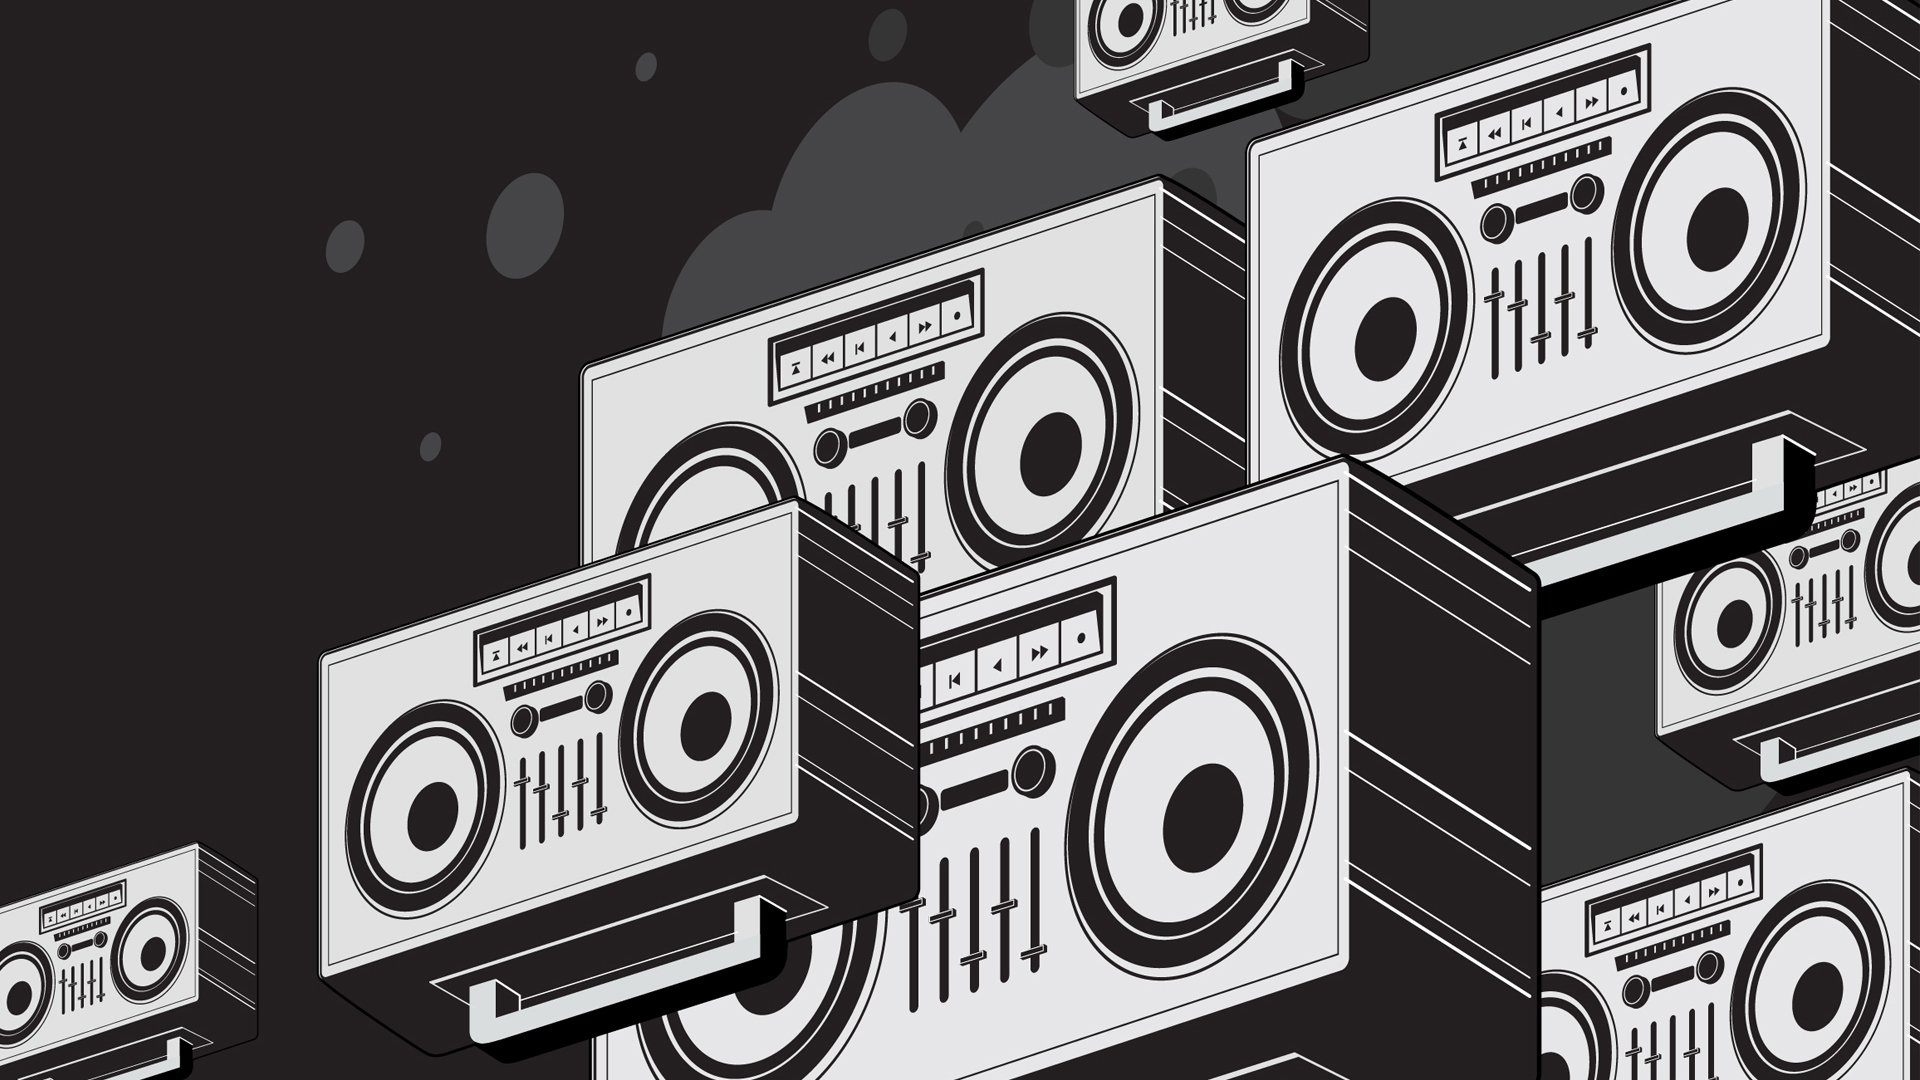
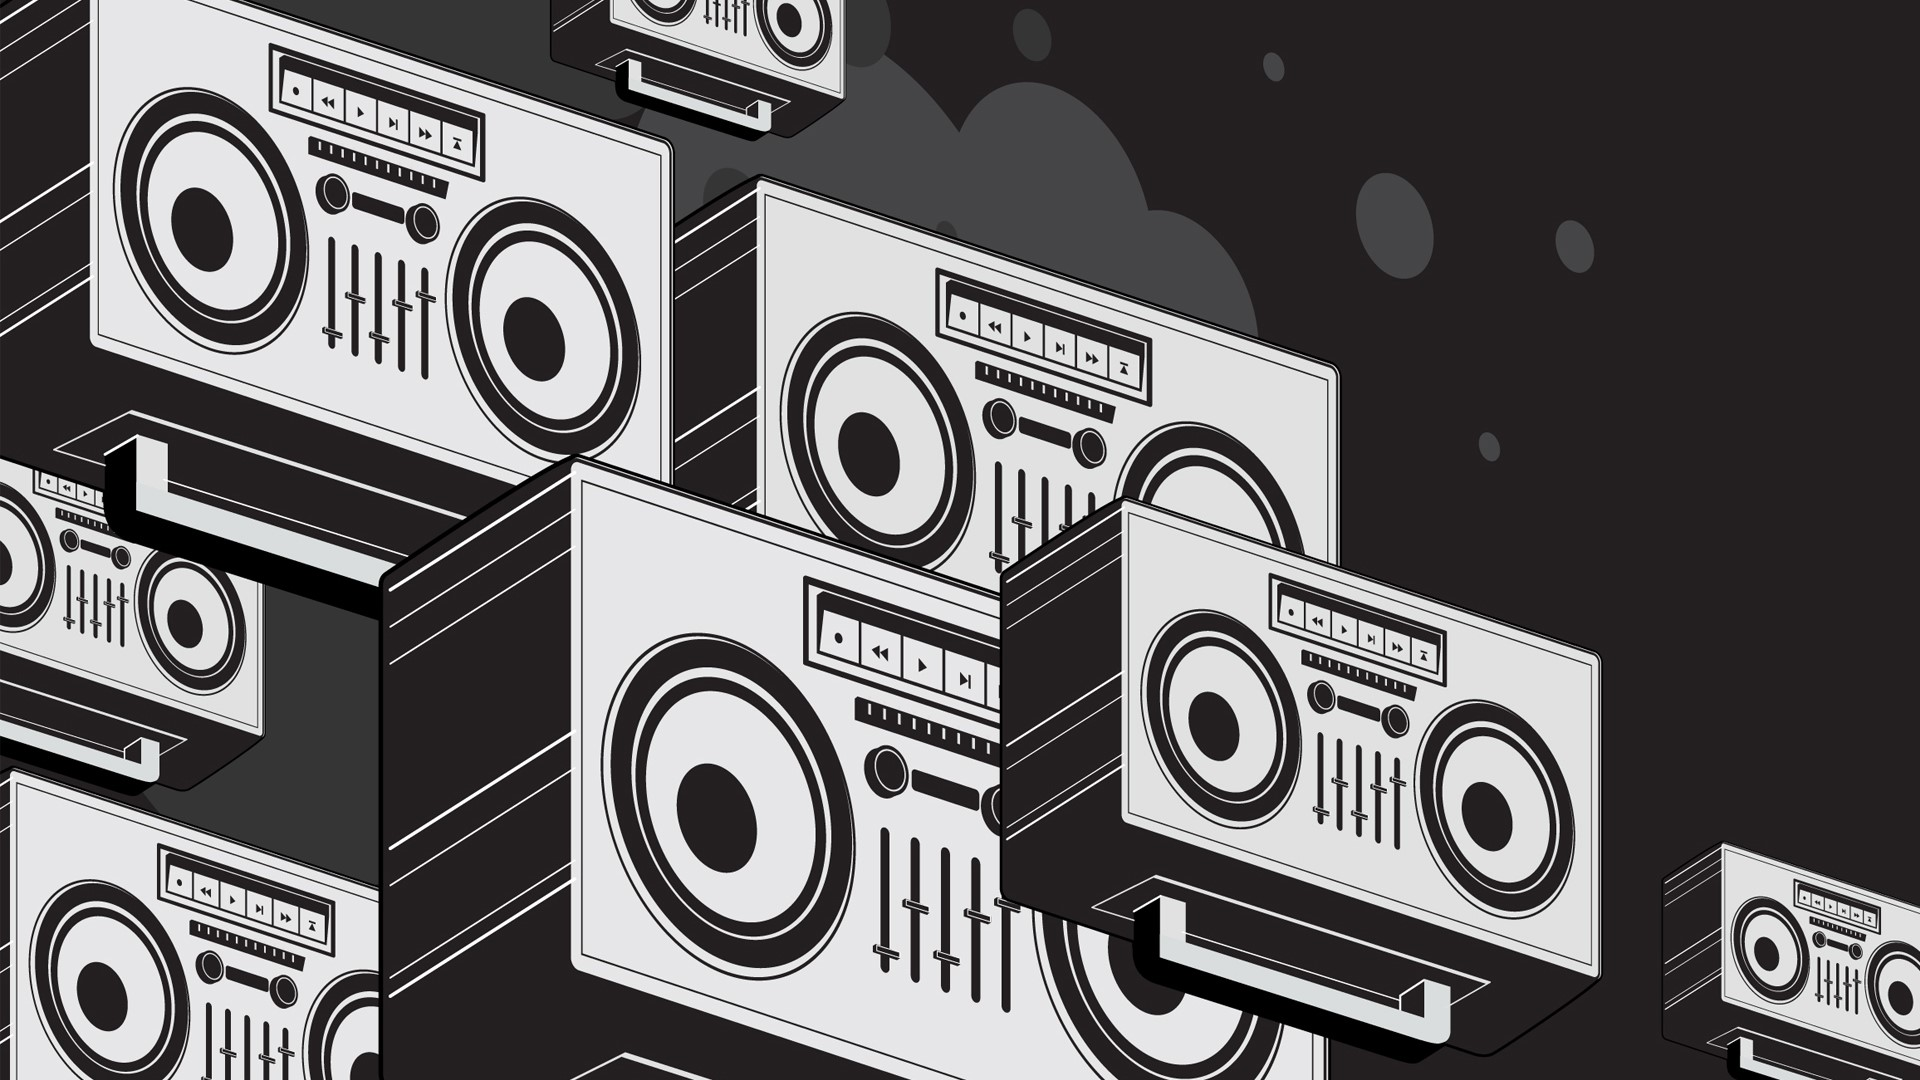
Got the background image working

diff --git a/homepage/styles/index.css b/homepage/styles/index.css
@@ -20,7 +20,7 @@ h4.utc-time {
     /*background-color: #FF7400;*/
     /*background-image: url("homepage/media/images/Boombox.jpg");*/
     /*background-image: url("../../media/images/Boombox.jpg");*/
-    background-image: url("/static/homepage/media/images/Boombox.jpg");
+    /*background-image: url("/static/homepage/media/images/Boombox.jpg");*/
     /*background-image: image(homepage/media/images/Boombox.jpg);*/
     /*background-image: image("/static/homepage/media/images/Boombox.jpg");*/
     /*background-image: image(../../media/images/Boombox.jpg);*/
@@ -35,7 +35,10 @@ h4.utc-time {
 
     /*background-image: url("http://markinternational.info/data/out/27/218767267-backgrounds-for-music.jpg");*/
     /*background-color: #FF7400;*/
-    background-size: 500px 100px;
+
+    background-image: url("/static/homepage/media/images/Guitar_Background.jpg");
+
+    background-size: 1770px 440px;
 
 }
 
@@ -43,4 +46,9 @@ h4.utc-time {
     text-align: right;
     padding-top: 150px;
     padding-right: 350px;
+}
+
+.btn-primary {
+    color: #00ff00;
+    background-color: #FF7400;
 }
